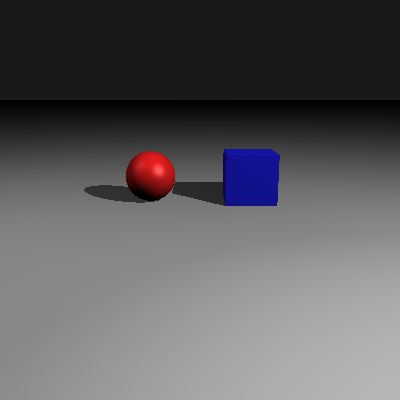
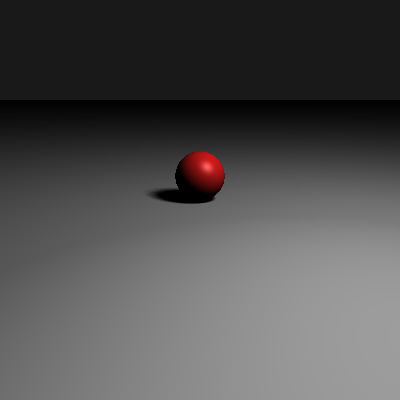
Refactor shadow ray calculations and update soft shadow test scenes

Changed region(s): [[0.0, 0.36, 1.0, 1.0]]

diff --git a/ray_tracer_skeleton/ray_tracer.py b/ray_tracer_skeleton/ray_tracer.py
@@ -71,26 +71,27 @@ def find_first_intersection(ray, surfaces):
 
     return first_hit, first_surf
 
-def is_occluded(lgt_point, hit_point, surfaces):
-    # Calculate the vector and the distance to the target
-    direction_vec = lgt_point - hit_point
-    distance_to_hit = np.linalg.norm(direction_vec)
-    direction_vec = normalize(direction_vec)
-    
-    # Create the ray. 
-    shadow_ray = Ray(hit_point + (direction_vec * 1e-4), direction_vec)
-    
+def is_occluded(lgt_point, hit_point, hit_surface, surfaces):
+    EPS = 1e-4
+
+    direction = lgt_point - hit_point
+    distance_to_light = np.linalg.norm(direction)
+    direction = normalize(direction)
+
+    shadow_ray = Ray(hit_point + direction * EPS, direction)
+
     for surf in surfaces:
-        # Get the distance to the intersection with this surface
+        if surf is hit_surface:
+            continue
+
         hit = surf.intersection(shadow_ray)
-        
-        # We use a small epsilon (0.001) to avoid hitting the target point itself
-        if hit is not None and 0.001 < hit[0] < (distance_to_hit - 0.001):
+        if hit is not None and EPS < hit[0] < distance_to_light - EPS:
             return True
-            
+
     return False
 
-def calculate_light_intensity(lgt, hit_point, root_shadow_rays, surfaces):
+
+def calculate_light_intensity(lgt, hit_point, root_shadow_rays, surf, surfaces):
     """
     Calculates the light intensity at a hit_point taking into account soft shadows.
     """
@@ -132,7 +133,7 @@ def calculate_light_intensity(lgt, hit_point, root_shadow_rays, surfaces):
             
             # 6. Check occlusion [cite: 120, 135]
             # Shoot a shadow ray from the sample_point to the hit_point
-            if not is_occluded(sample_point, hit_point, surfaces):
+            if not is_occluded(sample_point, hit_point, surf, surfaces):
                 hits += 1
                 
     # 7. Calculate final intensity using the shadow intensity parameter [cite: 138, 139]
@@ -161,7 +162,7 @@ def compute_color(ray, first_hit, surf, lights, mat, scene_settings, surfaces):
         lgt_color = np.array(lgt.color)
 
         #Compute Light Intensity
-        light_intensity = calculate_light_intensity(lgt, P, scene_settings.root_number_shadow_rays, surfaces)
+        light_intensity = calculate_light_intensity(lgt, P, scene_settings.root_number_shadow_rays, surf, surfaces)
 
         # diffuse component
         diff = mat_diffuse * lgt_color * max(0, np.dot(N, L)) * light_intensity
